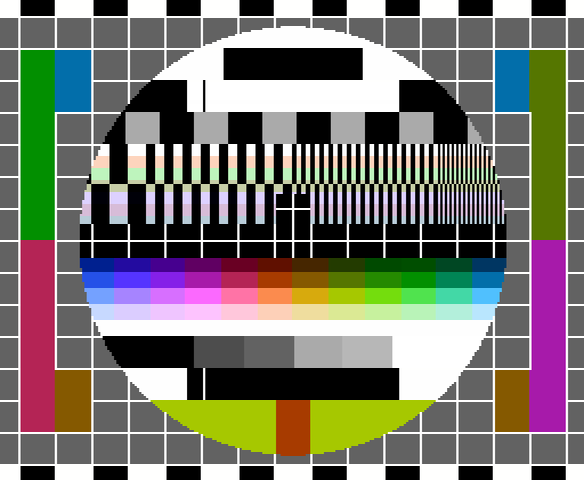
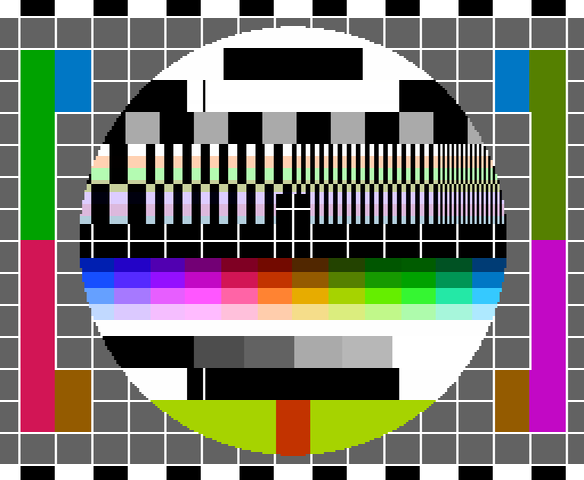
Undo saturation correction based on colorburst amp

diff --git a/ntsc-small.cc b/ntsc-small.cc
@@ -236,12 +236,14 @@ int main(int argc, char** argv)
     // sine LUTs specifically made for QAM demodulation
     // factor of 2 is applied to the LUTs for correct saturation
     // https://www.nesdev.org/wiki/NTSC_video#Chroma_saturation_correction
+	static float chroma_saturation_correction = 2.f;
 
+	// Optional:
 	// SMPTE 170M-2004, page 5, section 8.2
 	// value of 40 IRE based on colorburst p-p amplitude defined in
 	// SMPTE 170M-2004, page 8, Table 1
 	// chroma_saturation_correction = colorburst_reference_pp/colorburst_ppu_pp
-	static float chroma_saturation_correction = 2.f * (40.f / 140.f) / (0.524 - 0.148);
+	// chroma_saturation_correction *=  * (40.f / 140.f) / (0.524 - 0.148);
 
     static float sin_table[12], cos_table[12];
     for (int p = 0; p < 12; ++p)
